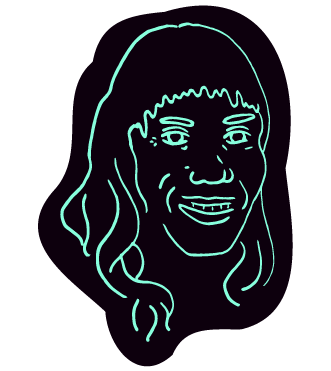
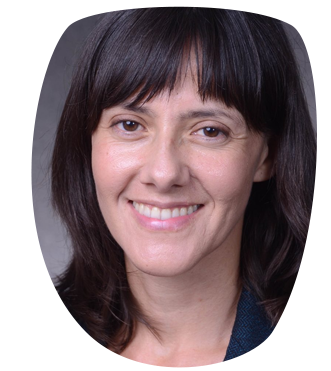
marias changes round 2

diff --git a/pages/index.vue b/pages/index.vue
@@ -30,6 +30,7 @@
     <section class="bg-dark min-h-[80vh] py-[230px] flex flex-col md:flex-row justify-center items-center overflow-hidden">
       <div class="text-brand-cyan min-h-[360px] max-w-[360px] p-5 relative flex flex-col justify-center mb-[180px] md:mb-0">
         <div class="absolute w-full h-0 bg-no-repeat top-0 left-0 pt-[100%] scale-[2.3] origin-center bg-center" style="background-image:url('/img/web-bio-circle-teal.svg'); background-size: auto 80%;"></div>
+        <div class="absolute h-[300px] w-full bg-no-repeat md:-top-36 md:left-64 left-0 -bottom-72 origin-center bg-center bg-contain" style="background-image:url('/img/pm-portrait-maria.png');"></div>
         <h2 class="text-3xl font-bold relative">Maria Talero, Ph.D.</h2>
 
         <nuxt-content :document="content.maria" class="" />
@@ -37,12 +38,17 @@
       </div>
     </section>
 
-    <section id="contact" class="bg-dark p-10 flex justify-center items-center">
+    <section id="who-we-are" class="bg-brand-purple py-10">
+      <div class="container mx-auto flex items-center justify-around lg:flex-row flex-col-reverse px-5">
+        <div class="p-5">
+          <img src="../static/img/web-2-souls.svg" alt="two souls intertwined, taming each other's shadows">
+        </div>
+        <div class="text-lg leading-relaxed md:w-2/3 sm:w-full bg-brand-cream p-4 rounded-lg">
+          <h2 class="text-sm font-mono uppercase mb-6 pb-2 border-b border-dotted border-dark">Let's Connect</h2>
 
-      <div>
-        <h1 class="text-4xl text-white text-center my-4">Let's Connect</h1>
-        
-        <ContactForm class="text-white" />
+          <ContactForm class="mx-0" />
+
+        </div>
       </div>
     </section>
     

diff --git a/components/footer-default.vue b/components/footer-default.vue
@@ -6,7 +6,7 @@
       <address class="inline not-italic" property="cc:attributionName">
         By 
         <a class="font-bold" :href="'mailto:' + maria.email" rel="author">{{ maria.name }}</a> 
-        <a class="" :href="'mailto:' + maria.email" title="Send Maria an email">💌 </a>
+        <a class="" :href="'mailto:' + maria.email" title="Send Maria an email">✉ </a>
       </address>
       <br>
       <em>(unless otherwise stated)</em>

diff --git a/components/contact-form.vue b/components/contact-form.vue
@@ -91,10 +91,10 @@
 
 <style lang="scss" scoped>
 .input {
-  @apply p-2 text-lg rounded-md border border-gray-400 shadow-inner flex-grow text-dark mb-2;
+  @apply p-2 text-lg rounded-md border border-gray-400 shadow-inner flex-grow text-dark mb-2 w-full;
 }
 
 .row {
-  @apply flex flex-col grow;
+  @apply flex flex-col grow shrink;
 }
 </style>

diff --git a/content/about/invocation.md b/content/about/invocation.md
@@ -2,3 +2,7 @@
 title: Invocation
 ---
 What if working to build a more equitable and life-sustaining world were also regenerative and healing for the people doing it?
+
+Do you sense tectonic weaknesses in our current social change-making systems? Do you wonder if deep down, we’re really getting anywhere collectively?
+
+We believe that if we turn towards these tectonic rumblings now, we’ll be better able to shape-shift our organizations to meet the wickedly complex challenges our world is facing.
